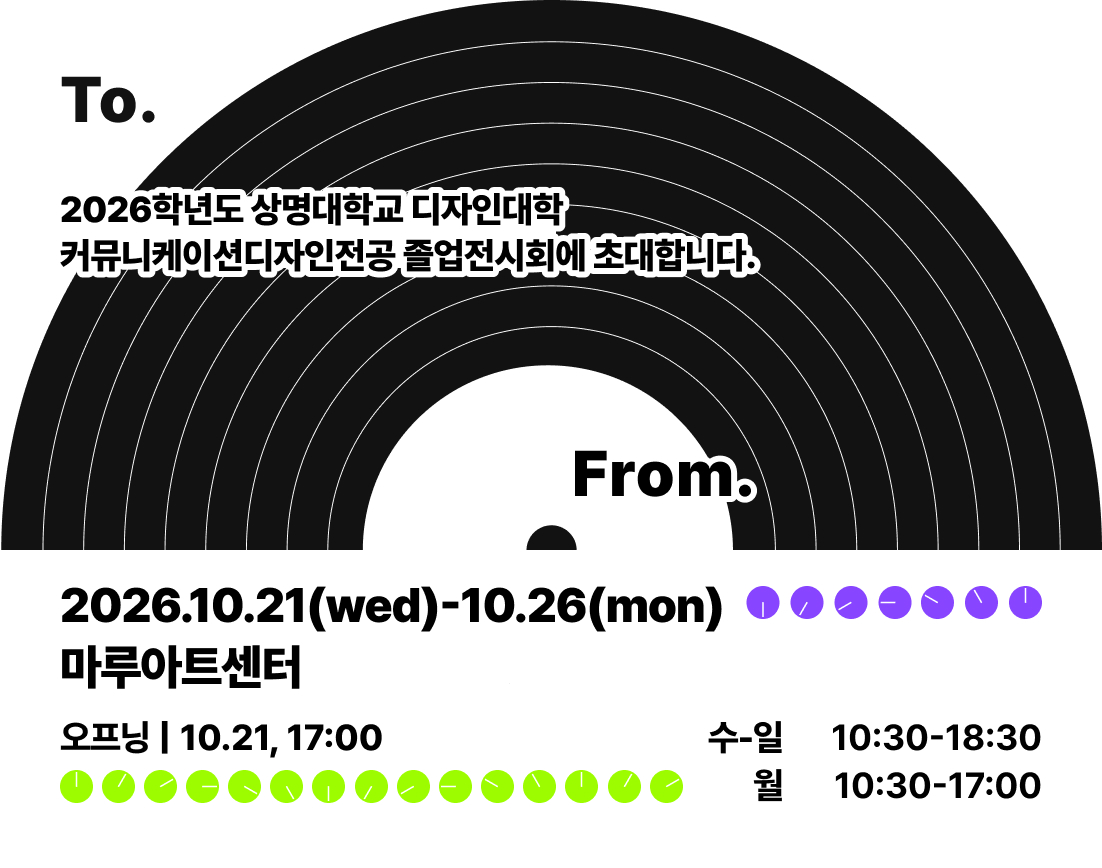
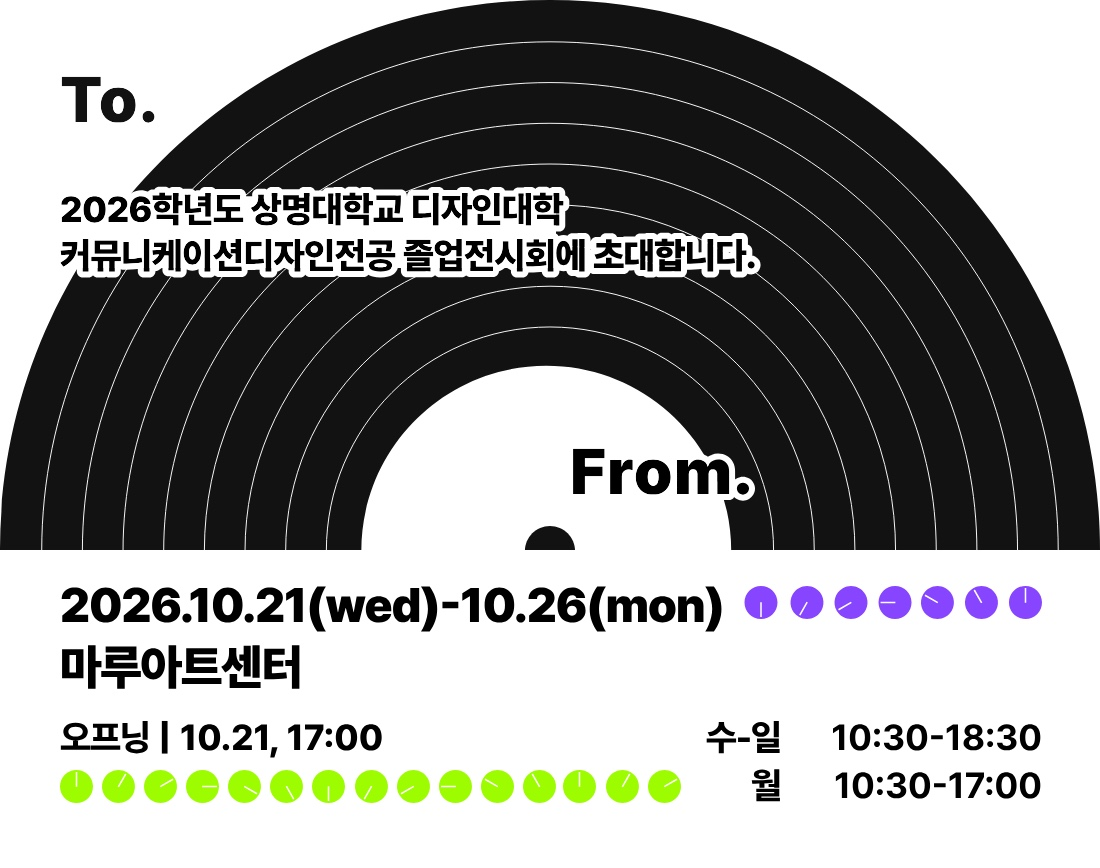
1006_3

diff --git a/style.css b/style.css
@@ -95,6 +95,33 @@ img { display: block; }
   height: 46.9rem;
   max-width: none;
 }
+/* 첫 진입 모션: 레코드판이 위에서 떨어져 자리보다 조금 더 내려갔다가 쫀득하게 되튕기며 자리 잡는다.
+   모든 구간에 After Effects의 Easy Ease(영향 33%)와 같은 곡선을 써서 키프레임마다 부드럽게 감속·가속한다 */
+.masthead-vinyl { animation: vinyl-drop 0.95s cubic-bezier(0.333, 0, 0.667, 1) both; }
+@keyframes vinyl-drop {
+  0%   { transform: translateY(-105%); }
+  40%  { transform: translateY(6%); }
+  57%  { transform: translateY(-4%); }
+  72%  { transform: translateY(2.2%); }
+  86%  { transform: translateY(-0.9%); }
+  100% { transform: translateY(0); }
+}
+.masthead-cover,
+.masthead-title,
+.masthead-subtitle,
+.masthead-badge { animation: masthead-in 0.3s 0.3s cubic-bezier(0.333, 0, 0.667, 1) both; }
+@keyframes masthead-in {
+  from { opacity: 0; }
+  to   { opacity: 1; }
+}
+@media (prefers-reduced-motion: reduce) {
+  .masthead-vinyl,
+  .masthead-cover,
+  .masthead-title,
+  .masthead-subtitle,
+  .masthead-badge { animation: none; }
+}
+
 /* 부제 글자 사이로 레코드판의 검은 부분이 비쳐 보이지 않게 뒤를 흰색으로 가린다 */
 .masthead-cover {
   position: absolute;
@@ -254,7 +281,7 @@ img { display: block; }
 .card {
   width: 27.7rem;
   height: auto;
-  aspect-ratio: 1102 / 868;
+  aspect-ratio: 1100 / 868;
   background: #fff;
   /* 길게 눌러 바로 저장할 수 있게 */
   -webkit-touch-callout: default;

diff --git a/app.js b/app.js
@@ -163,11 +163,11 @@
 
   /* ---------- 화면 2: 초대장 이미지 만들기 ---------- */
 
-  // 배경 이미지(assets/card.jpg)는 Figma "초대장" 프레임(551×434)의 2배 크기에서 이름만 뺀 것.
+  // 배경 이미지(assets/card.jpg)는 Figma "초대장" 프레임(550×434)을 2배 크기로 내보내면서 이름만 뺀 것.
   // 아래 이름 값은 같은 프레임의 텍스트 레이어 값을 그대로 옮겼다 (단위: 프레임 px).
   var CARD = {
     src: "assets/card.jpg",
-    width: 1102,
+    width: 1100,
     height: 868,
     scale: 2,                       // 프레임 1px = 이미지 2px
     fontSize: 29,                   // Pretendard Black

diff --git a/index.html b/index.html
@@ -11,7 +11,7 @@
   <meta property="og:title" content="PLAYLIST — 졸업전시에 초대합니다">
   <meta property="og:description" content="상명대학교 커뮤니케이션디자인전공 제 39회 졸업전시회. 이름을 입력하고 초대장을 만들어 보세요.">
   <meta property="og:image" content="assets/card.jpg">
-  <meta property="og:image:width" content="1102">
+  <meta property="og:image:width" content="1100">
   <meta property="og:image:height" content="868">
   <meta name="twitter:card" content="summary_large_image">
   <meta name="theme-color" content="#121212">
